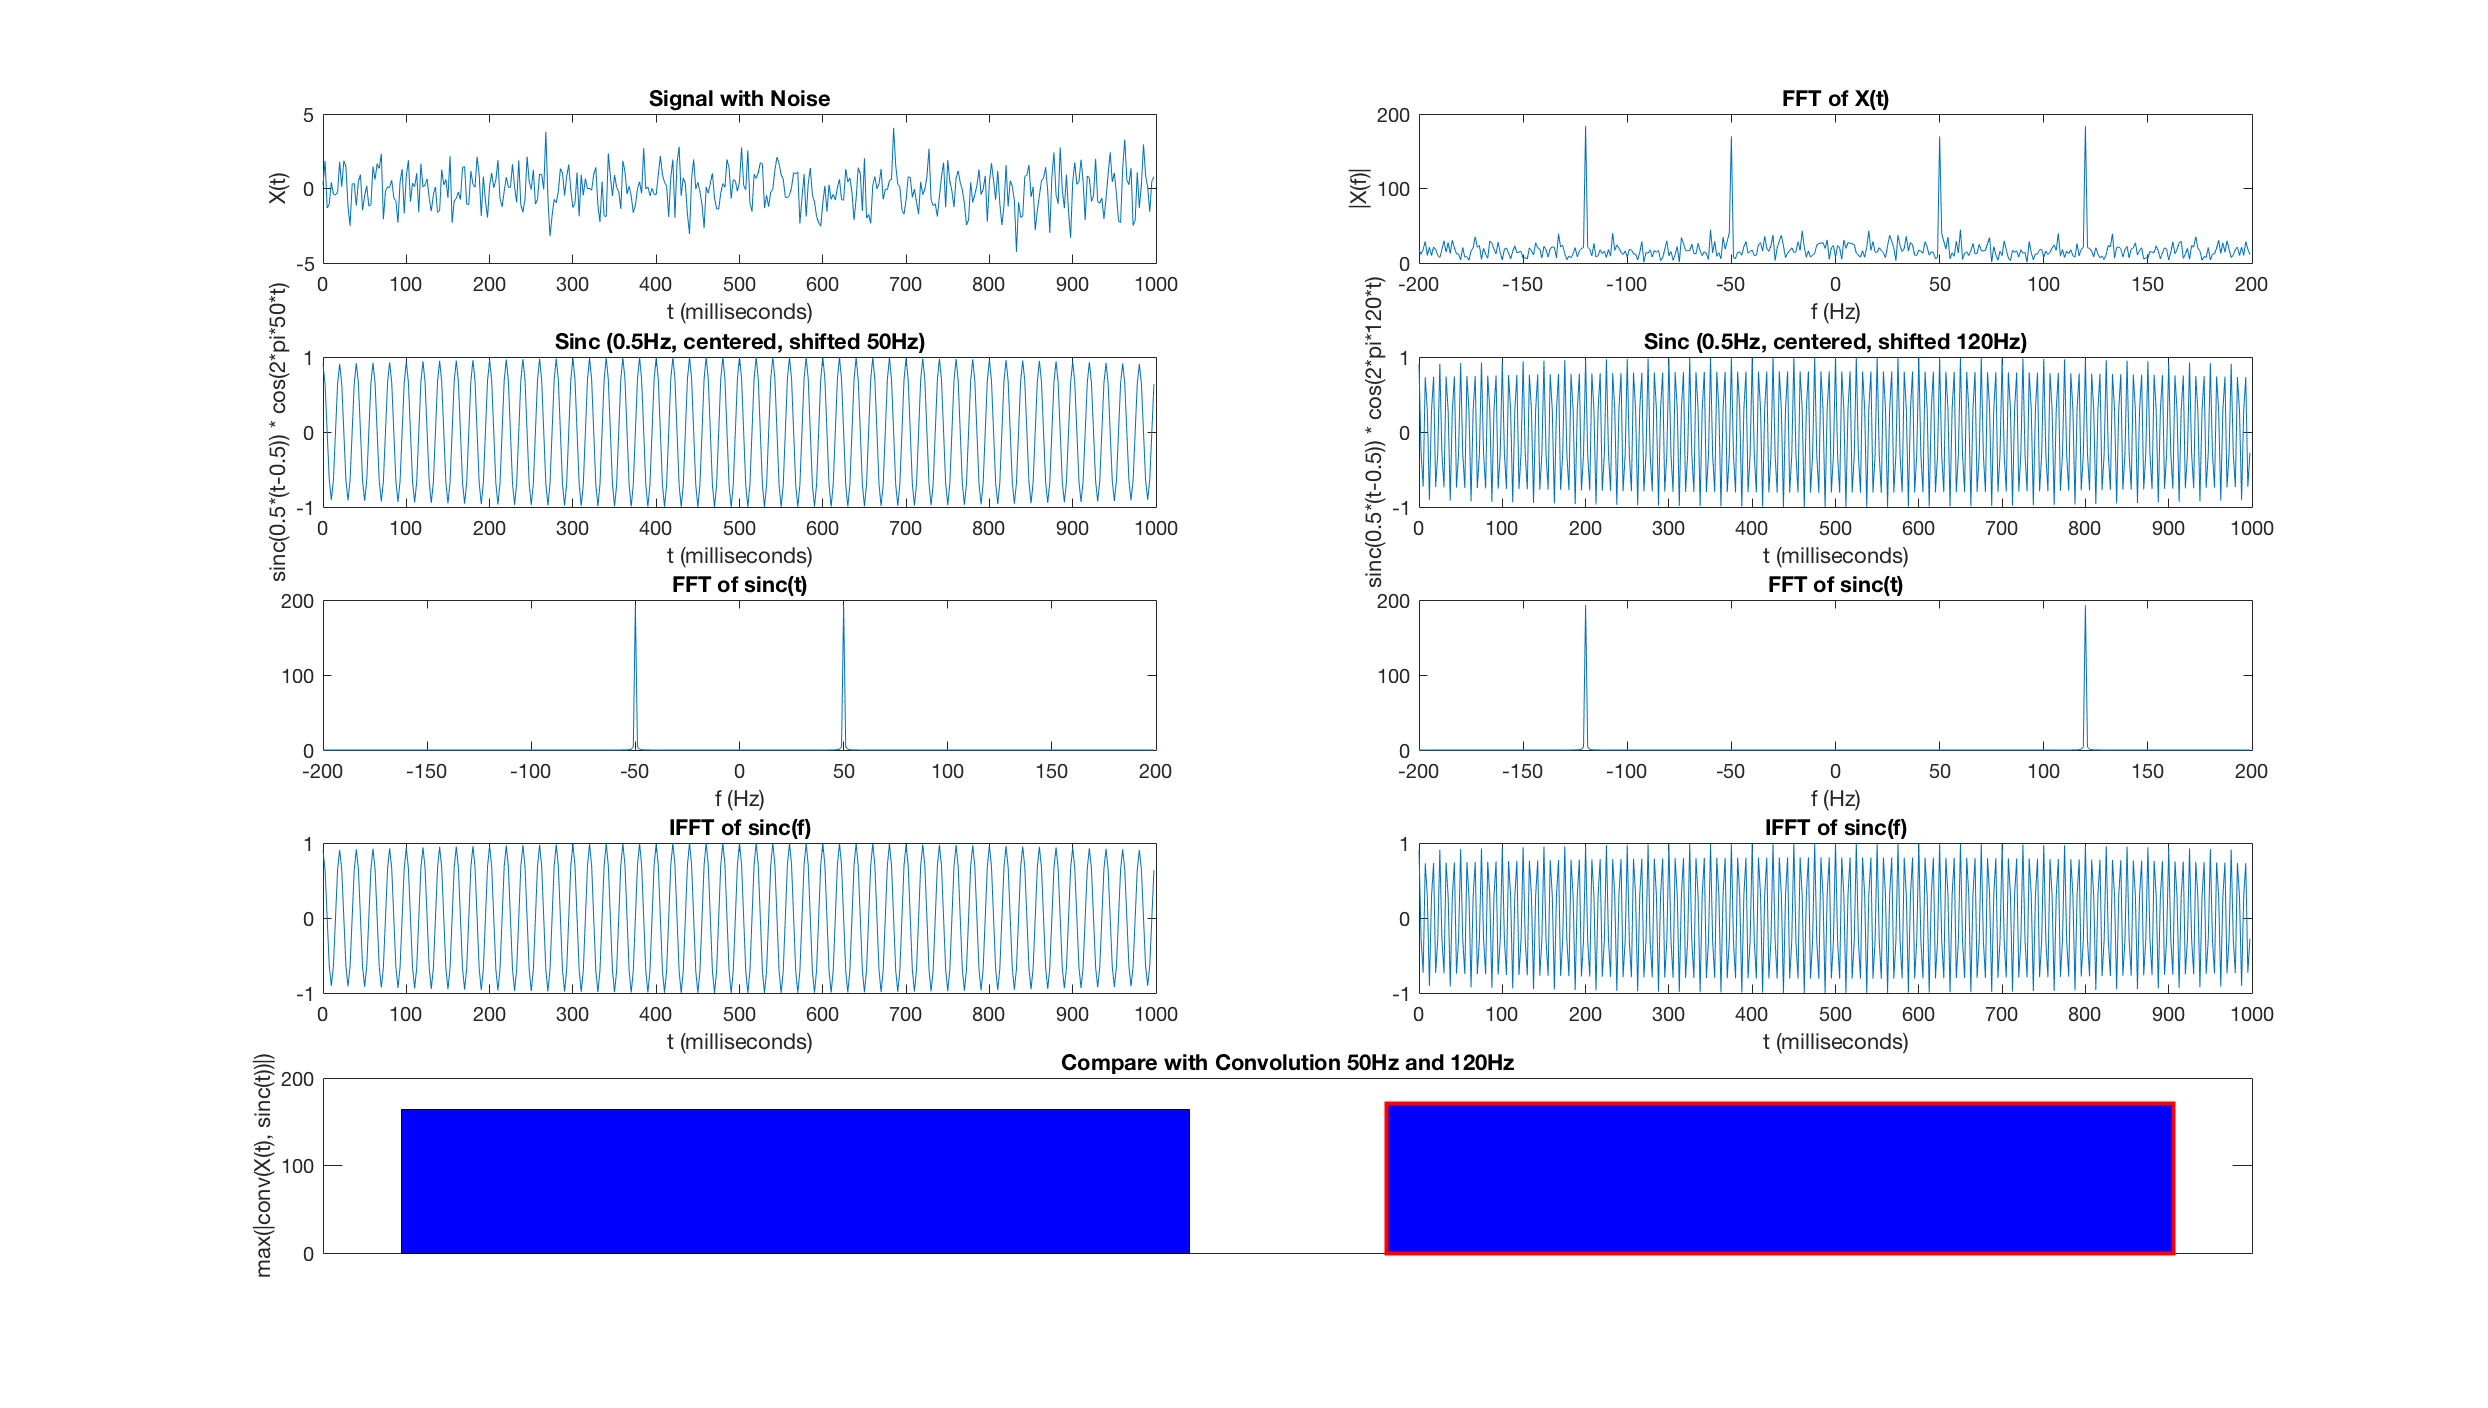
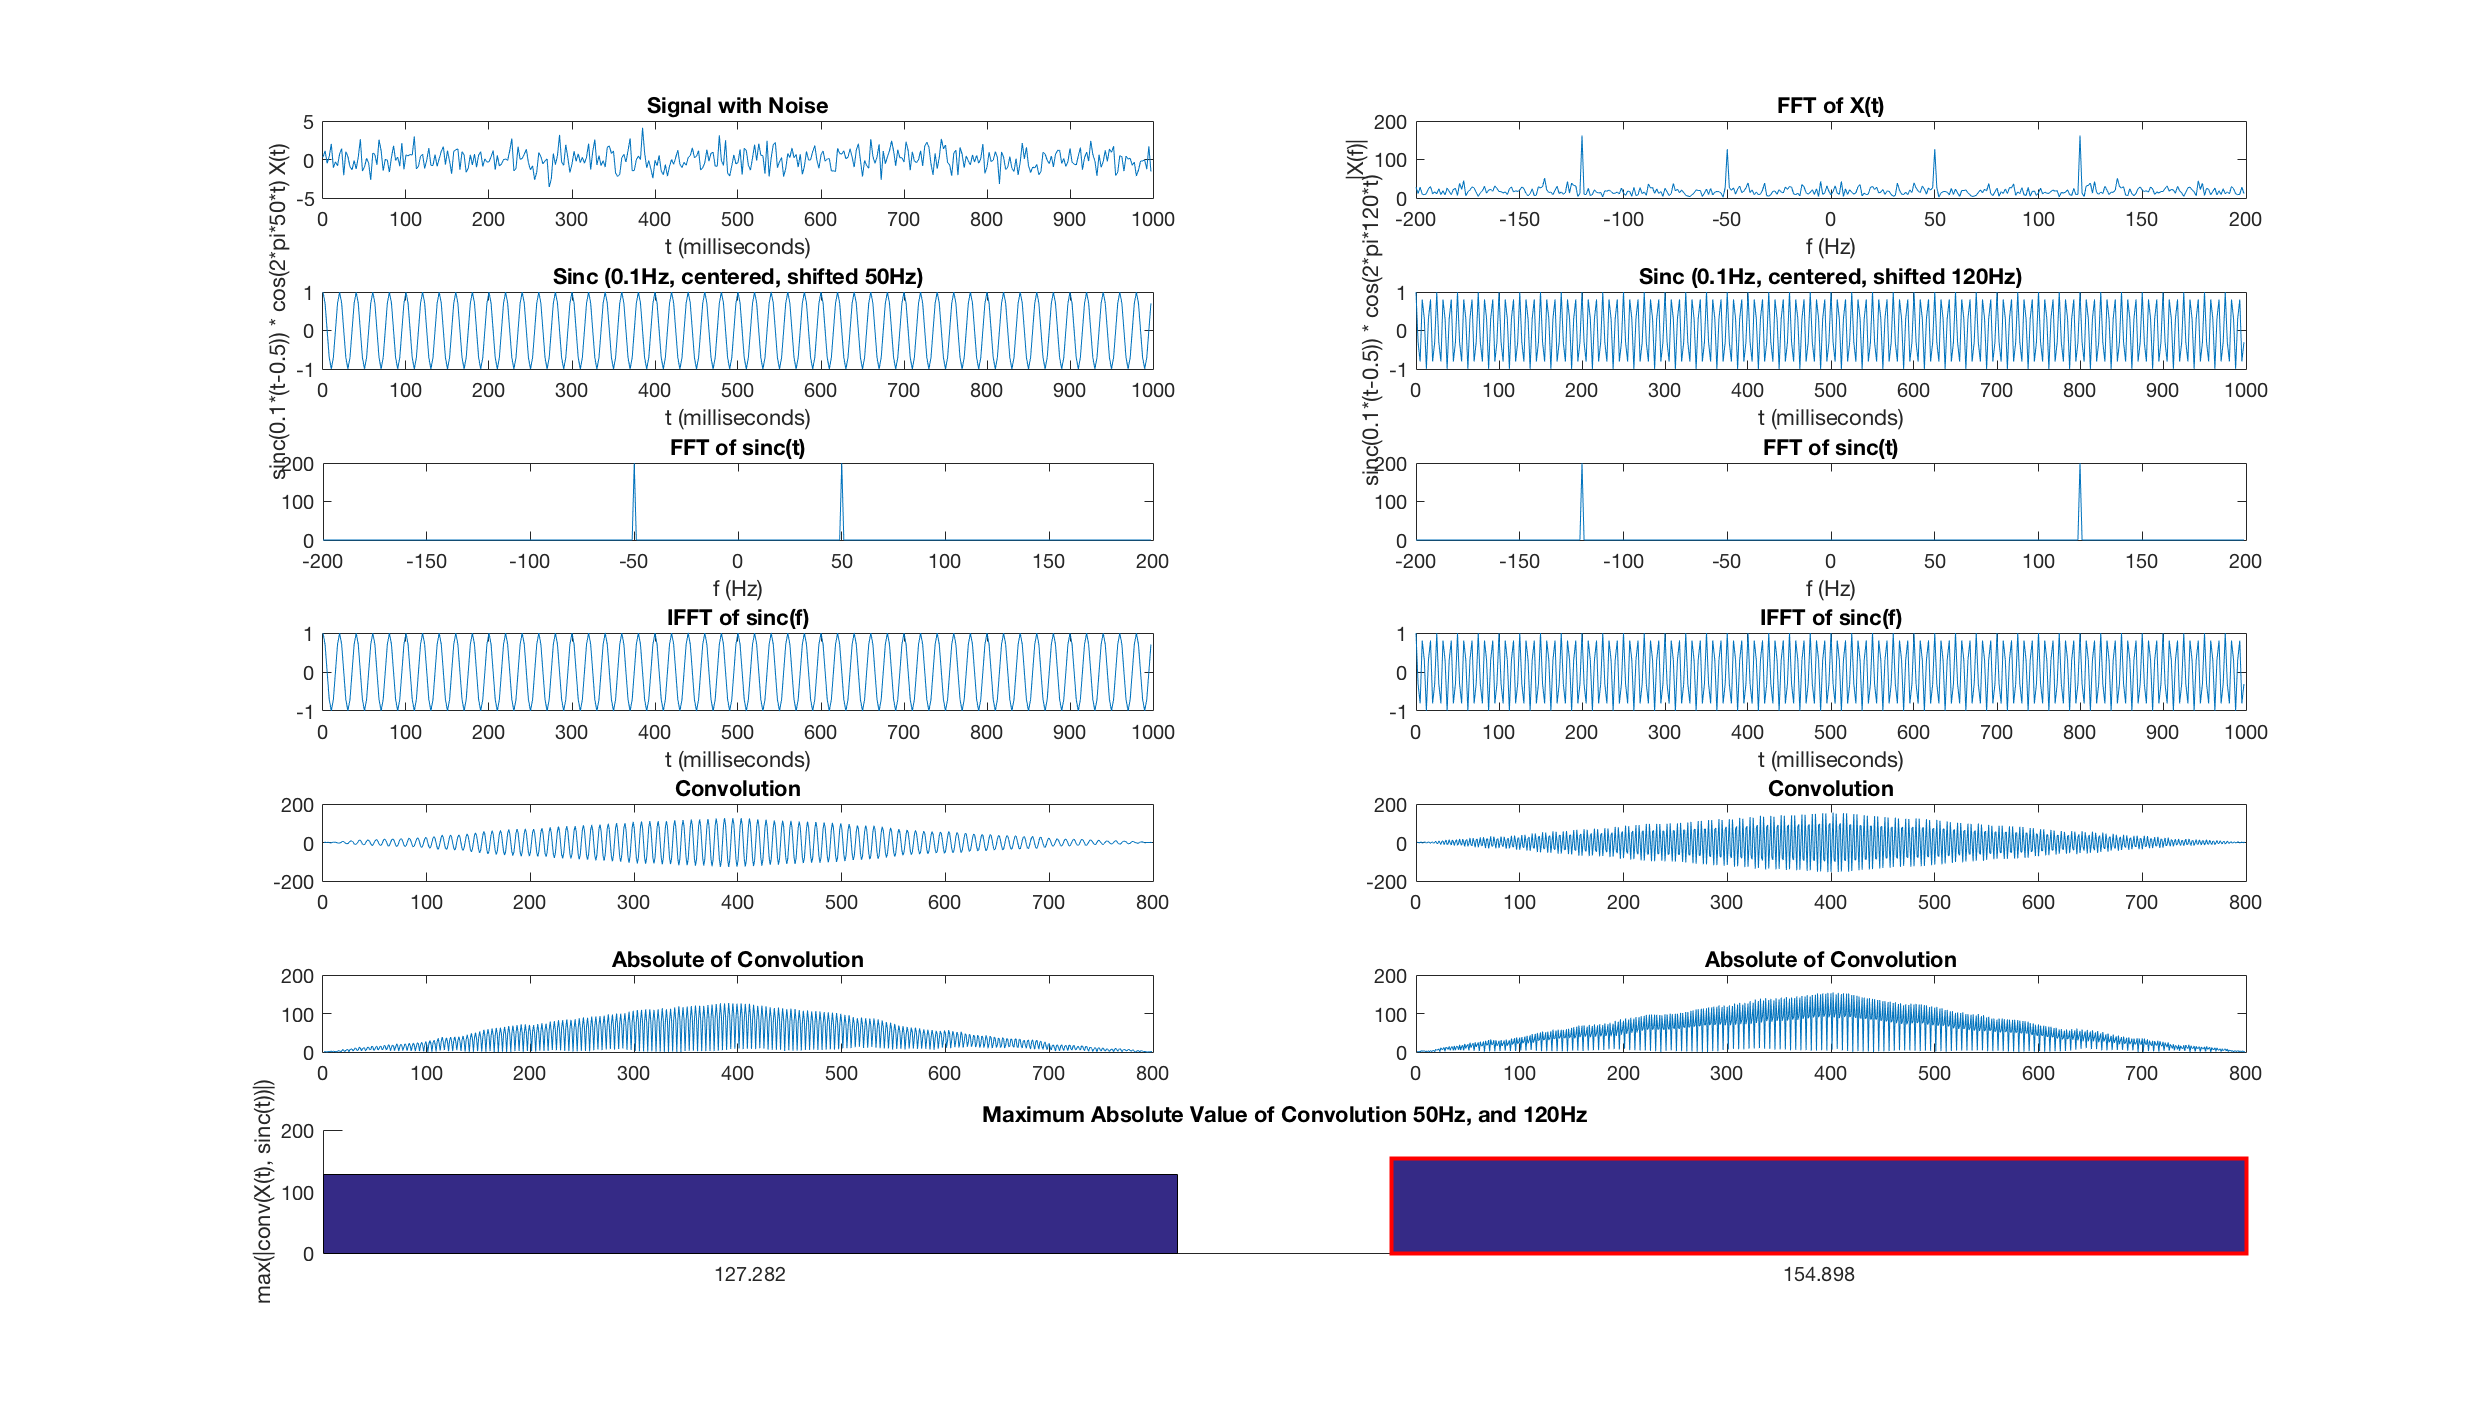
신호처리 시뮬레이션 코드 수정
코드 정리, figure 변경

diff --git a/SignalProcessing/decision_test.m b/SignalProcessing/decision_test.m
@@ -2,21 +2,25 @@ close all;
 clear;
 clc;
 
+bandw = 0.1;
+freq1 = 50;
+freq2 = 120;
+amp1 = 0.6;
+amp2 = 0.8;
+plotCol = 7;
+plotInd = 0;
+
 Fs = 400;       % Sampling frequency
 T = 1/Fs;       % Sampling period
 L = 400;        % Length of signal
 t = (0:L-1)*T;  % Time vector
 
-width = 0.5;
-freq1 = 50;
-freq2 = 120;
-amp1 = 0.7;
-amp2 = 0.9;
-
-S = amp1*sin(2*pi*freq1*t)+amp2*sin(2*pi*freq2*t);
+S = amp1*sin(2*pi*50*t)+amp2*sin(2*pi*120*t);
 X = S+randn(size(t));
+
 figure('units','normalized','outerposition',[0 0 1 1]);
-subplot(5,2,1);
+plotInd = plotInd+1;
+subplot(plotCol,2,plotInd);
 plot(1000*t,X);
 title('Signal with Noise');
 xlabel('t (milliseconds)');
@@ -24,62 +28,94 @@ ylabel('X(t)');
 
 Y = fftshift(fft(X,L));
 fY = (-numel(Y)/2:numel(Y)/2-1);
-subplot(5,2,2);
+plotInd = plotInd+1;
+subplot(plotCol,2,plotInd);
 plot(fY, abs(Y));
 title('FFT of X(t)');
 xlabel('f (Hz)');
 ylabel('|X(f)|');
 
-A1 = sinc(width*(t-0.5)) .* cos(2*pi*freq1*t);
-subplot(5,2,3);
+A1 = sinc(bandw*(t-0.5)) .* cos(2*pi*freq1*t);
+plotInd = plotInd+1;
+subplot(plotCol,2,plotInd);
 plot(1000*t,A1);
-title(sprintf('Sinc (%.1fHz, centered, shifted %dHz)',width,freq1));
+title(sprintf('Sinc (%.1fHz, centered, shifted %dHz)',bandw,freq1));
 xlabel('t (milliseconds)');
-ylabel(sprintf('sinc(%.1f*(t-0.5)) * cos(2*pi*%d*t)',width,freq1));
+ylabel(sprintf('sinc(%.1f*(t-0.5)) * cos(2*pi*%d*t)',bandw,freq1));
 
-A2 = sinc(width*(t-0.5)) .* cos(2*pi*freq2*t);
-subplot(5,2,4);
+A2 = sinc(bandw*(t-0.5)) .* cos(2*pi*freq2*t);
+plotInd = plotInd+1;
+subplot(plotCol,2,plotInd);
 plot(1000*t,A2);
-title(sprintf('Sinc (%.1fHz, centered, shifted %dHz)',width,freq2));
+title(sprintf('Sinc (%.1fHz, centered, shifted %dHz)',bandw,freq2));
 xlabel('t (milliseconds)');
-ylabel(sprintf('sinc(%.1f*(t-0.5)) * cos(2*pi*%d*t)',width,freq2));
+ylabel(sprintf('sinc(%.1f*(t-0.5)) * cos(2*pi*%d*t)',bandw,freq2));
 
 B1 = fftshift(fft(A1,L));
 fB1 = (-numel(B1)/2:numel(B1)/2-1);
-subplot(5,2,5);
+plotInd = plotInd+1;
+subplot(plotCol,2,plotInd);
 plot(fB1, abs(B1));
 title('FFT of sinc(t)');
 xlabel('f (Hz)');
 
 B2 = fftshift(fft(A2,L));
 fB2 = (-numel(B2)/2:numel(B2)/2-1);
-subplot(5,2,6);
+plotInd = plotInd+1;
+subplot(plotCol,2,plotInd);
 plot(fB2, abs(B2));
 title('FFT of sinc(t)');
 xlabel('f (Hz)');
 
 C1 = ifft(ifftshift(B1),L);
-subplot(5,2,7);
+plotInd = plotInd+1;
+subplot(plotCol,2,plotInd);
 plot(1000*t,C1);
 title('IFFT of sinc(f)');
 xlabel('t (milliseconds)');
 
 C2 = ifft(ifftshift(B2),L);
-subplot(5,2,8);
+plotInd = plotInd+1;
+subplot(plotCol,2,plotInd);
 plot(1000*t,C2);
 title('IFFT of sinc(f)');
 xlabel('t (milliseconds)');
 
 D1 = conv(X,C1);
+plotInd = plotInd+1;
+subplot(plotCol,2,plotInd);
+plot(D1);
+title('Convolution');
+
 D2 = conv(X,C2);
-E1 = [max(abs(D1)) max(abs(D2))];
-E2 = [E1 ; E1*0];
-subplot(5,1,5);
-b = bar(E2, 'FaceColor', [0 0 1]);
-title(sprintf('Compare with Convolution %dHz and %dHz',freq1,freq2));
+plotInd = plotInd+1;
+subplot(plotCol,2,plotInd);
+plot(D2);
+title('Convolution');
+
+D1 = conv(X,C1);
+plotInd = plotInd+1;
+subplot(plotCol,2,plotInd);
+plot(abs(D1));
+title('Absolute of Convolution');
+
+D2 = conv(X,C2);
+plotInd = plotInd+1;
+subplot(plotCol,2,plotInd);
+plot(abs(D2));
+title('Absolute of Convolution');
+
+E = [max(abs(D1)) max(abs(D2))];
+plotInd = plotInd+1;
+subplot(plotCol,1,ceil(plotInd/2));
+hold on
+for i = 1 : length(E)
+    b(i) = bar(i, E(i));
+end
+hold off
+title(sprintf('Maximum Absolute Value of Convolution %dHz, and %dHz',freq1,freq2));
 ylabel('max(|conv(X(t), sinc(t))|)');
-xlim([0.72 1.28]);
-set(gca, 'XTick', []);
+set(gca, 'XTickLabel',E,'XTick',1:length(E))
 if max(abs(D1)) > max(abs(D2))
     b(1).LineWidth = 2;
     b(1).EdgeColor = 'red';
